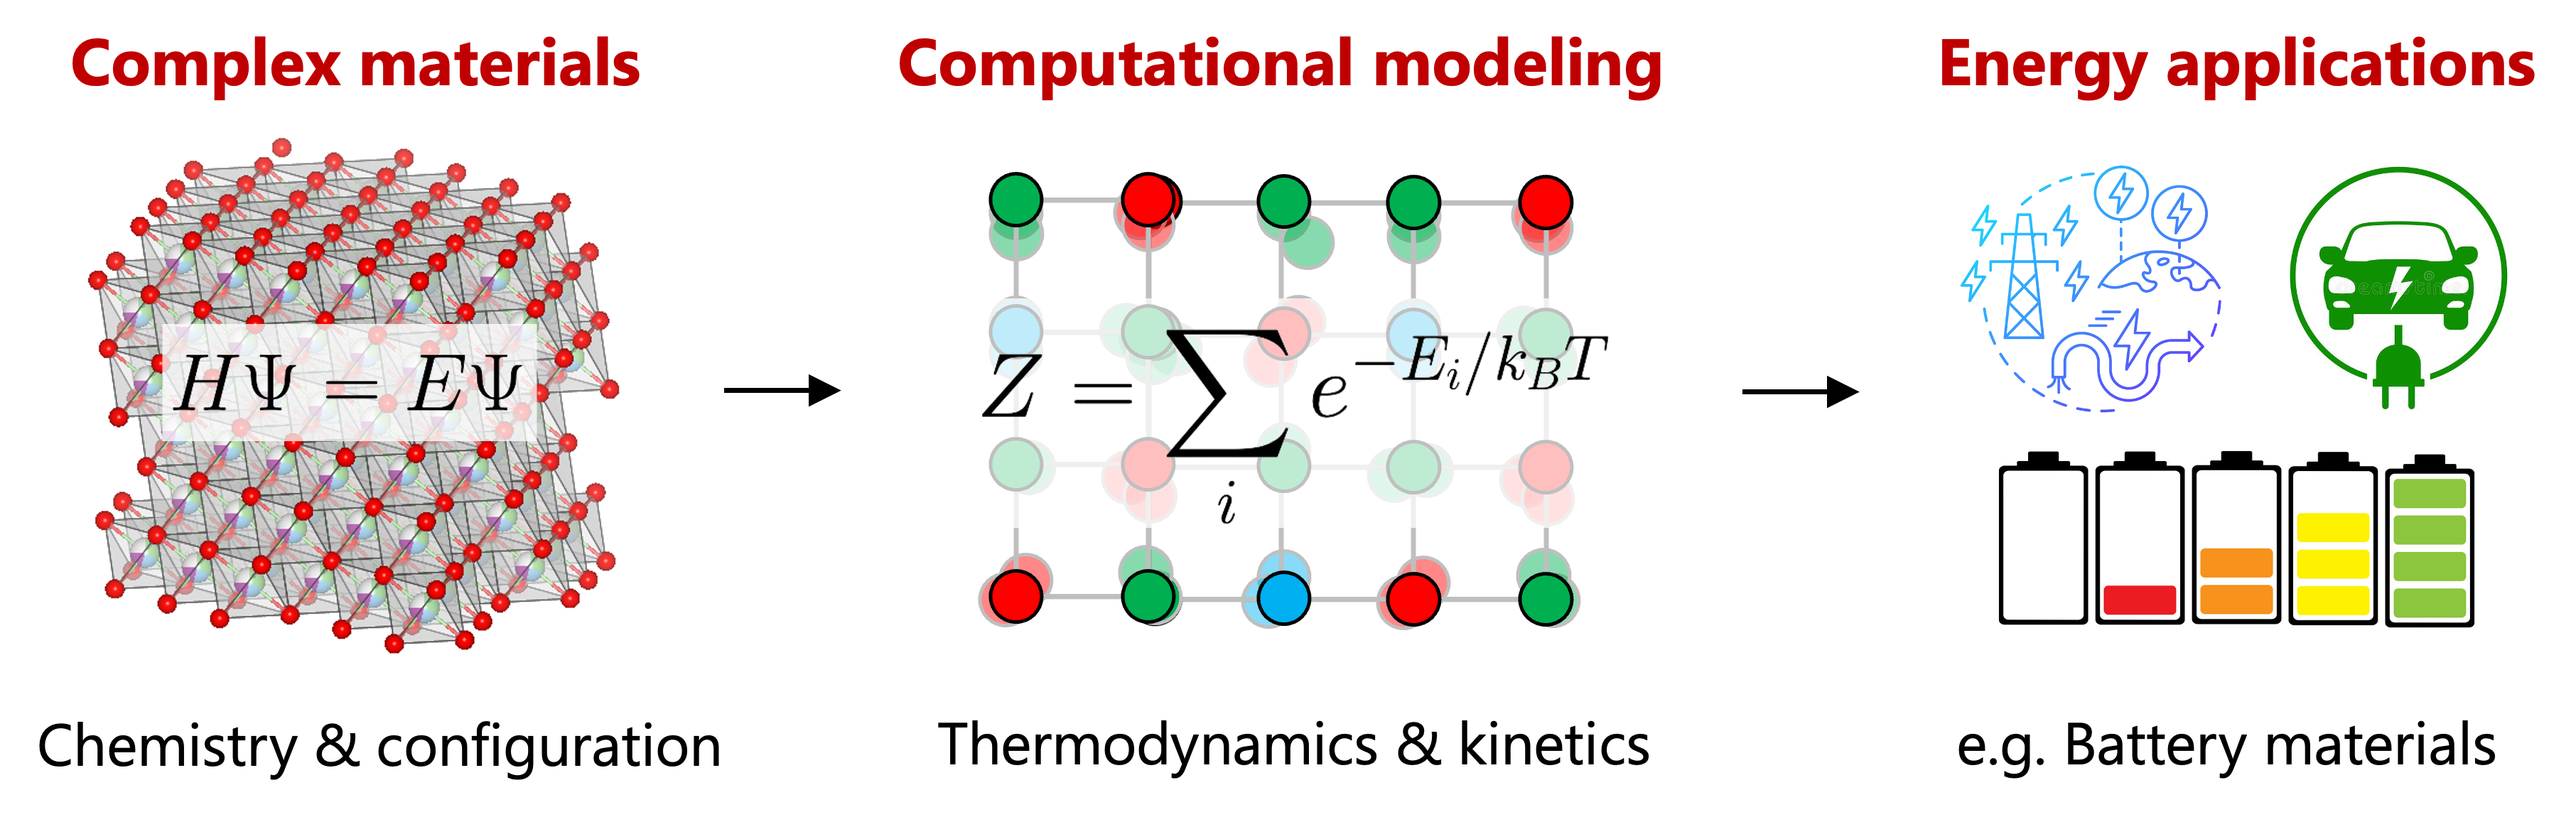
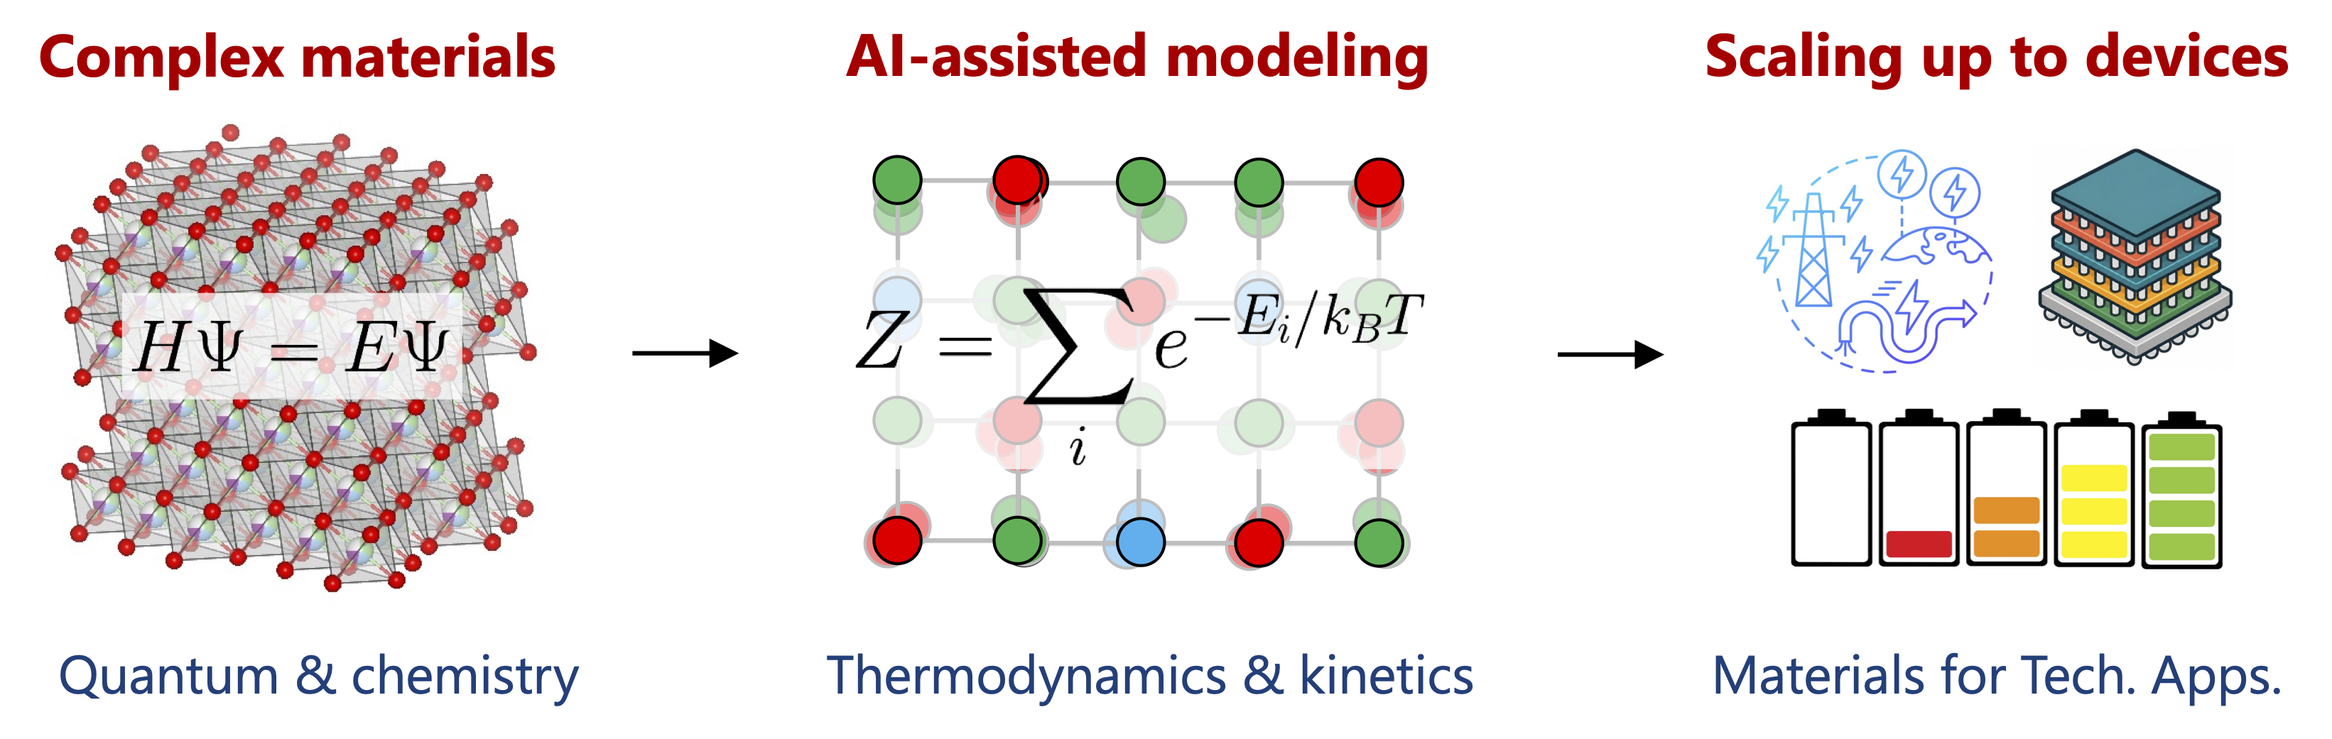
update

diff --git a/_site/research.html b/_site/research.html
@@ -159,16 +159,18 @@
 <div class="content-container">
     <img src="/img/PZ_summary.png" class="responsive-image" alt="PZ summary" />
     <p class="aligned-paragraph">
-        Materials modeling with atomistic simulations offers a powerful alternative to conventional trial-and-error methods by providing atomic-level insights for mechanistic understanding and accelerated materials discovery. A central objective is to predict material properties at finite temperatures, which requires computationally efficient statistical-mechanics approaches that retain ab initio accuracy.
-        <br /><br />
-        Our research focuses on developing computational frameworks that connect <span style="text-decoration: underline">first-principles descriptions of crystalline and molecular microstates with their macroscopic thermodynamic and kinetic properties.</span>
-        By bridging length scales, time scales, and physical phenomena, these frameworks accelerate materials discovery while deepening our fundamental understanding of materials chemistry for technological development.
+        <!-- Materials modeling with atomistic simulations offers a powerful alternative to conventional trial-and-error methods by providing atomic-level insights for mechanistic understanding and accelerated materials discovery. A central objective is to predict material properties at finite temperatures, which requires computationally efficient statistical-mechanics approaches that retain ab initio accuracy.
+        <br><br> -->
+        Our research focuses on developing computational and AI frameworks that connect first-principles descriptions of crystalline and molecular microstates with their macroscopic thermodynamic and kinetic properties.
+        By bridging length scales, time scales, and experimental phenomena, these frameworks accelerate materials discovery while deepening our fundamental understanding of materials chemistry for technological development.
         <br /><br />
         Currently, we are particularly interested in:
         <ul style="list-style-type: disc; padding-left: 40px;">
             <li>Computational modeling of complex materials under realistic experimental conditions.</li>
             <li>Atomistic simulations that integrate statistical mechanics with first-principles calculations.</li>
             <li>Method development in AI for science: simulations for large and open systems, generative dynamics, and experimental alignment.</li>
+            <li>Building scientific agents as discovery loops via physics-grounded simulations.</li>
+
         </ul>
         </p>
 </div>

diff --git a/research.md b/research.md
@@ -33,16 +33,18 @@ layout: default
 <div class="content-container">
     <img src='/img/PZ_summary.png' class="responsive-image" alt="PZ summary">
     <p class="aligned-paragraph">
-        Materials modeling with atomistic simulations offers a powerful alternative to conventional trial-and-error methods by providing atomic-level insights for mechanistic understanding and accelerated materials discovery. A central objective is to predict material properties at finite temperatures, which requires computationally efficient statistical-mechanics approaches that retain ab initio accuracy.
-        <br><br>
-        Our research focuses on developing computational frameworks that connect <span style="text-decoration: underline">first-principles descriptions of crystalline and molecular microstates with their macroscopic thermodynamic and kinetic properties.</span>
-        By bridging length scales, time scales, and physical phenomena, these frameworks accelerate materials discovery while deepening our fundamental understanding of materials chemistry for technological development.
+        <!-- Materials modeling with atomistic simulations offers a powerful alternative to conventional trial-and-error methods by providing atomic-level insights for mechanistic understanding and accelerated materials discovery. A central objective is to predict material properties at finite temperatures, which requires computationally efficient statistical-mechanics approaches that retain ab initio accuracy.
+        <br><br> -->
+        Our research focuses on developing computational and AI frameworks that connect first-principles descriptions of crystalline and molecular microstates with their macroscopic thermodynamic and kinetic properties.
+        By bridging length scales, time scales, and experimental phenomena, these frameworks accelerate materials discovery while deepening our fundamental understanding of materials chemistry for technological development.
         <br><br>
         Currently, we are particularly interested in:
         <ul style="list-style-type: disc; padding-left: 40px;">
             <li>Computational modeling of complex materials under realistic experimental conditions.</li>
             <li>Atomistic simulations that integrate statistical mechanics with first-principles calculations.</li>
             <li>Method development in AI for science: simulations for large and open systems, generative dynamics, and experimental alignment.</li>
+            <li>Building scientific agents as discovery loops via physics-grounded simulations.</li>
+
         </ul>
         </p>
 </div>
